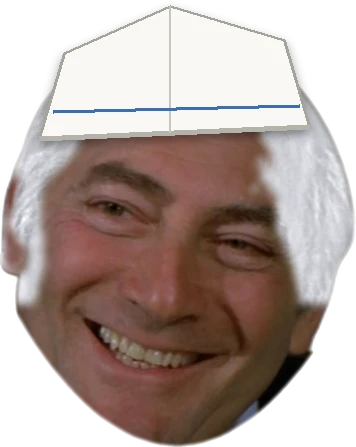
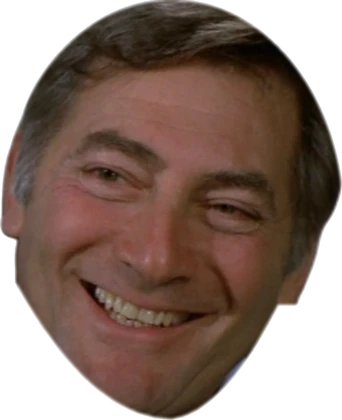
v3.69 : tête de Lou telle quelle
Claude-Session: https://claude.ai/code/session_01WYc8bcxVUTnPR8YQxCHawi

diff --git a/public/index.html b/public/index.html
@@ -2811,6 +2811,7 @@
 
   /* ===== Version de l'appli et nouveautés (la plus récente en premier) ===== */
   const VERSIONS = [
+    ["3.69", "12 octobre 2026", ["Hill Valley : Lou retrouve sa tête naturelle (sans cheveux blancs ni calot)"]],
     ["3.68", "12 octobre 2026", ["Rebecca : une croix rouge médicale sur la poitrine de son gilet, et un bandeau rouge autour du front"]],
     ["3.67", "12 octobre 2026", ["Hill Valley : nouvelles têtes pour Lou (cheveux blancs, calot en papier) et Goldie Wilson"]],
     ["3.66", "12 octobre 2026", ["Hill Valley : le garçon au blouson « R » se promène, avec sa tête"]],

diff --git a/public/sw.js b/public/sw.js
@@ -1,7 +1,7 @@
 // Service worker : permet d'installer l'appli (Android, iPhone, PC) et de l'ouvrir sans réseau.
 // Les pages sont servies « réseau d'abord » (toujours la dernière version), les images « cache d'abord ».
 // Le courrier et le registre (/api/) ne sont jamais mis en cache.
-const CACHE = "caserne-nf-v187";
+const CACHE = "caserne-nf-v188";
 const SHELL = ["/", "/images/garde.jpg", "/images/pierre.jpg", "/images/escaliers/brique.jpg", "/manifest.webmanifest", "/icons/icon-192.png"];
 
 self.addEventListener("install", e => {
